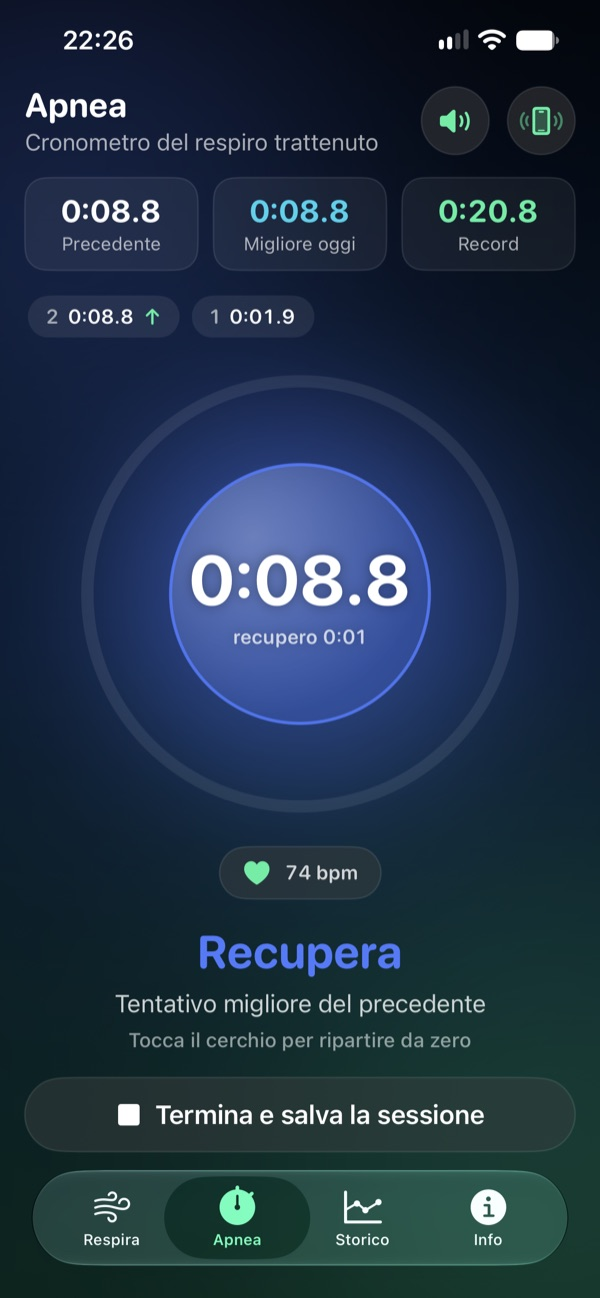
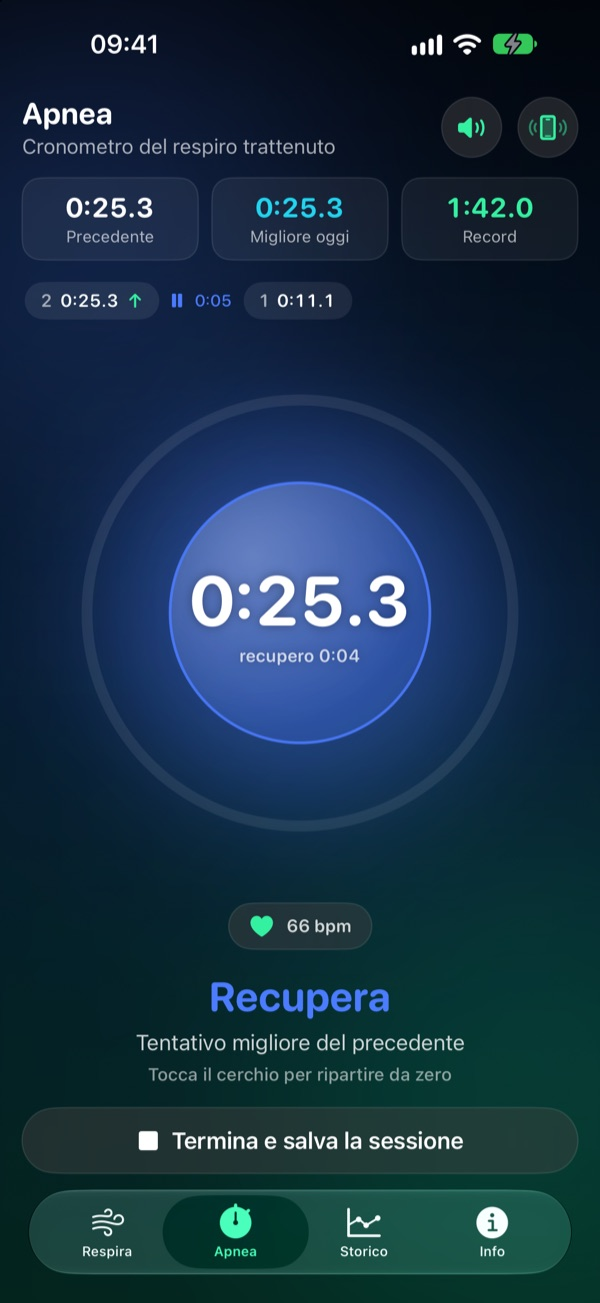
Nuovi screenshot di iPhone e Apple Watch nel README
- Sette schermate dell'iPhone rifatte con la grafica attuale (iPhone 6,9")
- Due schermate dell'app per Apple Watch
- Modalità demo solo nelle build DEBUG (argomento -demoVitals) per
  simulare il battito negli screenshot; non è presente nell'app pubblicata

diff --git a/LetsBreathe/VitalsMonitor.swift b/LetsBreathe/VitalsMonitor.swift
@@ -58,6 +58,13 @@ final class VitalsMonitor: NSObject, ObservableObject {
         samples = []
         heartRate = nil
         isRecording = true
+        #if DEBUG
+        // Solo per gli screenshot: con l'argomento -demoVitals il battito è simulato.
+        if ProcessInfo.processInfo.arguments.contains("-demoVitals") {
+            startDemoVitals()
+            return
+        }
+        #endif
         guard HKHealthStore.isHealthDataAvailable(), WCSession.isSupported() else {
             status = .unavailable
             return
@@ -141,6 +148,21 @@ final class VitalsMonitor: NSObject, ObservableObject {
             store.execute(query)
         }
     }
+
+    #if DEBUG
+    private func startDemoVitals() {
+        status = .connecting
+        Task {
+            var bpm = 72.0
+            try? await Task.sleep(for: .seconds(1))
+            while isRecording {
+                bpm = min(84, max(62, bpm + Double.random(in: -2.5...2.0)))
+                record(bpm: bpm.rounded())
+                try? await Task.sleep(for: .seconds(2))
+            }
+        }
+    }
+    #endif
 
     private func record(bpm: Double) {
         guard isRecording else { return }

diff --git a/LetsBreathe Watch App/WatchApp.swift b/LetsBreathe Watch App/WatchApp.swift
@@ -66,6 +66,17 @@ final class WatchAppDelegate: NSObject, WKApplicationDelegate {
 final class WatchWorkoutManager: NSObject, ObservableObject {
     static let shared = WatchWorkoutManager()
 
+    override init() {
+        super.init()
+        #if DEBUG
+        // Solo per gli screenshot: con l'argomento -demoVitals mostra una rilevazione in corso.
+        if ProcessInfo.processInfo.arguments.contains("-demoVitals") {
+            isRunning = true
+            heartRate = 74
+        }
+        #endif
+    }
+
     @Published private(set) var isRunning = false
     @Published private(set) var heartRate = 0.0
     enum Problem { case healthUnavailable, cannotStart, interrupted }

diff --git a/README.md b/README.md
@@ -6,10 +6,15 @@ App per iPhone e Apple Watch per esercizi di respirazione guidata e allenamento 
   <img src="docs/Respira.jpg" width="230" alt="Schermata Respira: timer di respirazione pronto a partire">
   <img src="docs/Timer.jpg" width="230" alt="Elenco dei timer di respirazione salvati">
   <img src="docs/Nuovo_Timer.jpg" width="230" alt="Creazione di un nuovo timer con durata delle fasi e modelli rapidi">
-  <img src="docs/Apnea.jpg" width="230" alt="Cronometro di apnea durante un tentativo">
-  <img src="docs/Recupero.jpg" width="230" alt="Recupero tra due tentativi di apnea, con il battito da Apple Watch">
+  <img src="docs/Apnea.jpg" width="230" alt="Cronometro di apnea durante un tentativo, con il tempo da superare e il battito da Apple Watch">
+  <img src="docs/Recupero.jpg" width="230" alt="Recupero tra due tentativi di apnea: il secondo ha superato il primo">
   <img src="docs/Storico.jpg" width="230" alt="Storico delle sessioni di apnea con grafico dei progressi">
-  <img src="docs/Sessione.jpg" width="230" alt="Dettaglio di una sessione con tempi di apnea e battito cardiaco">
+  <img src="docs/Sessione.jpg" width="230" alt="Dettaglio di una sessione con tempi di apnea, battito cardiaco e ossigenazione">
+</p>
+
+<p align="center">
+  <img src="docs/Watch_Attesa.jpg" width="200" alt="App per Apple Watch in attesa che parta l'apnea dall'iPhone">
+  <img src="docs/Watch.jpg" width="200" alt="App per Apple Watch durante la rilevazione del battito, inviato all'iPhone">
 </p>
 
 > [!WARNING]
